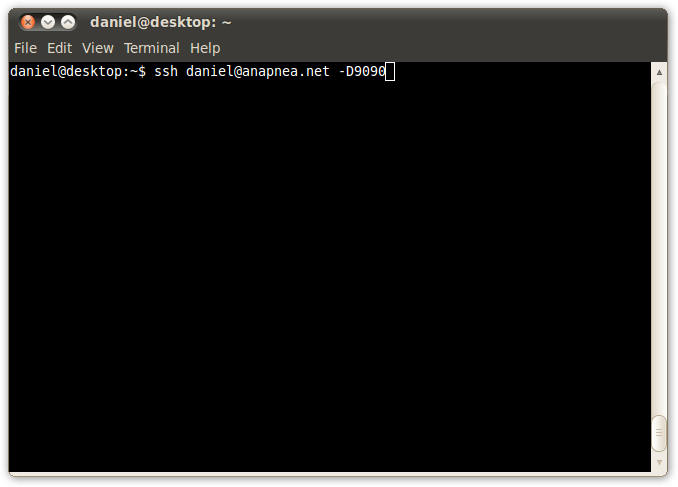
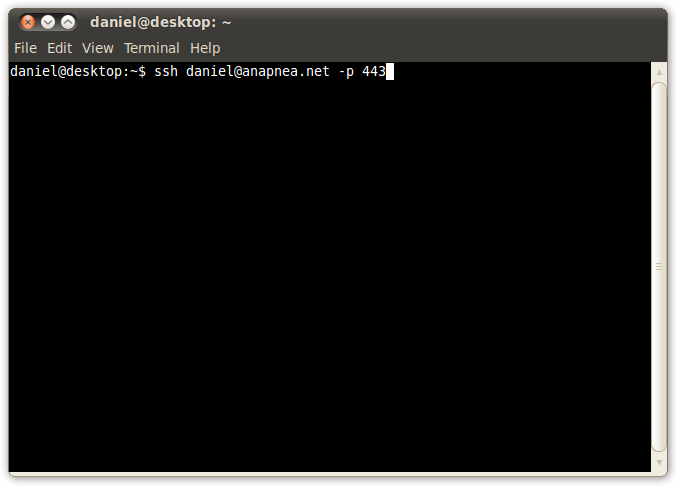
Added 443 note to unix_ssh

Changed region(s): [[0.9602, 0.154, 0.9912, 0.8624], [0.4956, 0.1232, 0.5885, 0.1848]]

diff --git a/unix_ssh/index.html b/unix_ssh/index.html
@@ -43,6 +43,17 @@
 
 <div class="step">
   <div>
+    The default port for SSH is 22, but Anapnea runs SSH on port 443 as well, because when using some internet connections all traffic on port 22 is blocked.
+    (Port 443 is normally used for HTTPS but we use it for SSH. Because 443 is used for HTTPS it is completely impractical for someone to block it.)
+    So if you're having trouble connecting, you can try using port 443, by passing the <code>-p 443</code> flag.
+  </div>
+
+  <div><img src="images/5.png" alt="PuTTY configuration window showing port changed to 443" /></div>
+  </div>
+
+
+<div class="step">
+  <div>
     If you want to tunnel over ssh, then you will need to open a dynamic tunnel, using the -D9090 flag.
     This flag tells ssh to open a SOCKS server on port 9090 and tunnel traffic through your ssh connection.
     Here, I type <code>ssh <i>yourusername</i>@anapnea.net -D9090</code> and then open a SSH connection as normal.
@@ -50,7 +61,7 @@
   </div>
 
   <div>
-    <img src="images/5.png" alt="Terminal showing ssh daniel@anapnea.net -D9090" />
+    <img src="images/6.png" alt="Terminal showing ssh daniel@anapnea.net -D9090" />
     <img src="images/4.png" alt="Terminal running ssh, connected to Anapnea." />
   </div>
 </div>
@@ -64,11 +75,11 @@
   </div>
 
   <div>
-    <img src="images/6.png" alt="Ubuntu System->Prefences menu with Network Proxy hilighted" />
-    <img src="images/7.png" alt="Ubuntu Network Proxy settings dialogue" />
+    <img src="images/7.png" alt="Ubuntu System->Prefences menu with Network Proxy hilighted" />
+    <img src="images/8.png" alt="Ubuntu Network Proxy settings dialogue" />
   </div>
   <div>
-    <img src="images/8.png" alt="Mac OSX Network Proxy settings dialogue" />
+    <img src="images/9.png" alt="Mac OSX Network Proxy settings dialogue" />
   </div>
 </div>
 
